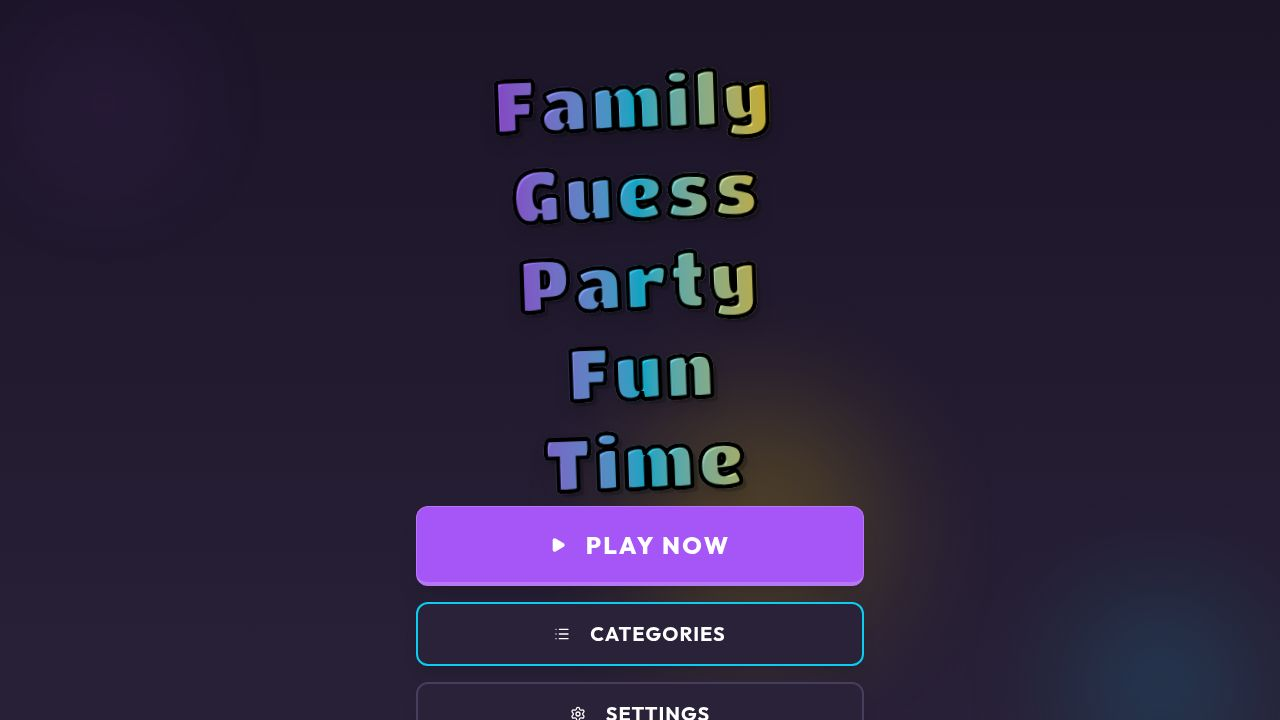
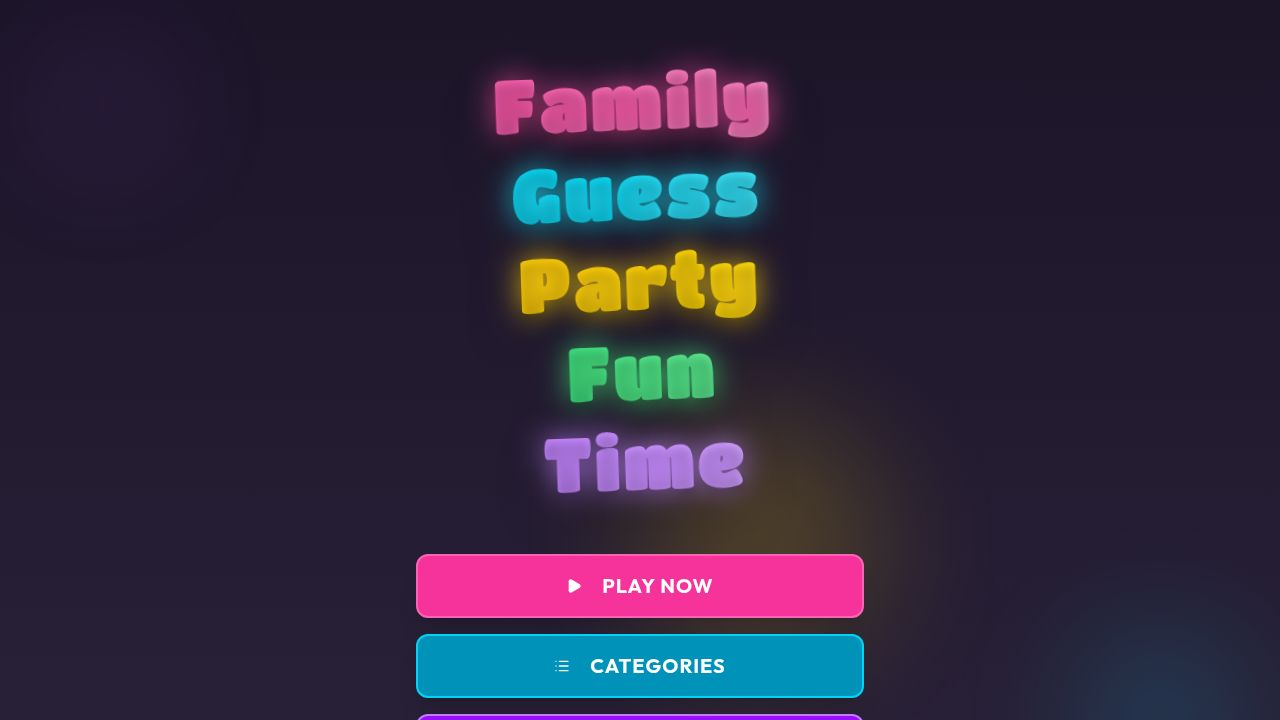
Improve game's main screen appearance with vibrant colors and spacing
Update the Home page UI by increasing spacing between the title and buttons, standardizing button appearances with a distinct pink for 'Play Now', and enhancing the title's text with bolder, brighter, and more vibrant gradient colors.

Replit-Commit-Author: Agent
Replit-Commit-Session-Id: 98156a0a-e30d-4d90-b92c-8c9dc8497f62
Replit-Commit-Checkpoint-Type: intermediate_checkpoint
Replit-Commit-Event-Id: 6503df21-1c62-4601-9d99-6ff2404a9077
Replit-Commit-Screenshot-Url: https://storage.googleapis.com/screenshot-production-us-central1/05ed8dc6-139c-46e5-b00a-5847e72f658c/98156a0a-e30d-4d90-b92c-8c9dc8497f62/EmNNyFl
Replit-Helium-Checkpoint-Created: true

Changed region(s): [[0.3125, 0.0611, 0.6875, 1.0]]

diff --git a/client/src/pages/Home.tsx b/client/src/pages/Home.tsx
@@ -103,12 +103,16 @@ export default function Home() {
 
       <div className="z-10 flex flex-col items-center justify-between min-h-[80vh] max-w-md w-full text-center py-8">
         <div className="space-y-4 animate-bounce-in flex-1 flex items-center">
-          <h1 className="text-6xl md:text-7xl font-black text-transparent bg-clip-text bg-gradient-to-r from-primary via-secondary to-accent text-stroke drop-shadow-xl tracking-wider transform -rotate-2 leading-tight">
-            Family<br/>Guess<br/>Party<br/>Fun<br/>Time
+          <h1 className="text-6xl md:text-7xl font-black tracking-wider transform -rotate-2 leading-tight drop-shadow-2xl">
+            <span className="block text-transparent bg-clip-text bg-gradient-to-r from-pink-400 to-pink-300 drop-shadow-lg" style={{ textShadow: '0 0 30px rgba(236, 72, 153, 0.8), 0 4px 8px rgba(0,0,0,0.3)' }}>Family</span>
+            <span className="block text-transparent bg-clip-text bg-gradient-to-r from-cyan-400 to-cyan-300 drop-shadow-lg" style={{ textShadow: '0 0 30px rgba(34, 211, 238, 0.8), 0 4px 8px rgba(0,0,0,0.3)' }}>Guess</span>
+            <span className="block text-transparent bg-clip-text bg-gradient-to-r from-yellow-400 to-yellow-300 drop-shadow-lg" style={{ textShadow: '0 0 30px rgba(250, 204, 21, 0.8), 0 4px 8px rgba(0,0,0,0.3)' }}>Party</span>
+            <span className="block text-transparent bg-clip-text bg-gradient-to-r from-green-400 to-green-300 drop-shadow-lg" style={{ textShadow: '0 0 30px rgba(74, 222, 128, 0.8), 0 4px 8px rgba(0,0,0,0.3)' }}>Fun</span>
+            <span className="block text-transparent bg-clip-text bg-gradient-to-r from-purple-400 to-purple-300 drop-shadow-lg" style={{ textShadow: '0 0 30px rgba(192, 132, 252, 0.8), 0 4px 8px rgba(0,0,0,0.3)' }}>Time</span>
           </h1>
         </div>
 
-        <div className="grid gap-4 w-full animate-slide-up mt-auto" style={{ animationDelay: '0.2s' }}>
+        <div className="grid gap-4 w-full animate-slide-up mt-12" style={{ animationDelay: '0.2s' }}>
           {/* iOS hint to add to home screen for fullscreen experience */}
           {isIOS && !isStandalone && (
             <div className="bg-card/80 backdrop-blur rounded-xl p-4 text-sm text-muted-foreground flex items-center gap-3 border border-border">
@@ -119,19 +123,18 @@ export default function Home() {
           
           <Button 
             size="lg" 
-            className="w-full h-20 text-2xl font-black uppercase tracking-widest shadow-xl hover:scale-105 transition-transform bg-primary hover:bg-primary/90 text-white border-b-4 border-primary-foreground/20 active:border-b-0 active:translate-y-1"
+            className="w-full h-16 text-xl font-bold uppercase tracking-wider shadow-xl hover:scale-105 transition-transform bg-pink-500 hover:bg-pink-400 text-white border-2 border-pink-400"
             onClick={handleStart}
             data-testid="button-play"
           >
-            <Play className="mr-3 w-8 h-8 fill-current" />
+            <Play className="mr-3 w-6 h-6 fill-current" />
             Play Now
           </Button>
 
           <Link href="/categories">
             <Button 
-              variant="outline" 
               size="lg" 
-              className="w-full h-16 text-xl font-bold uppercase tracking-wider shadow-lg hover:scale-105 transition-transform border-2 border-secondary bg-card hover:bg-secondary hover:text-secondary-foreground"
+              className="w-full h-16 text-xl font-bold uppercase tracking-wider shadow-xl hover:scale-105 transition-transform bg-cyan-600 hover:bg-cyan-500 text-white border-2 border-cyan-400"
               data-testid="button-categories"
             >
               <List className="mr-3 w-6 h-6" />
@@ -141,9 +144,8 @@ export default function Home() {
 
           <Link href="/settings">
             <Button 
-              variant="outline" 
               size="lg" 
-              className="w-full h-16 text-xl font-bold uppercase tracking-wider shadow-lg hover:scale-105 transition-transform border-2 border-border bg-card hover:bg-accent hover:text-accent-foreground"
+              className="w-full h-16 text-xl font-bold uppercase tracking-wider shadow-xl hover:scale-105 transition-transform bg-purple-600 hover:bg-purple-500 text-white border-2 border-purple-400"
               data-testid="button-settings"
             >
               <SettingsIcon className="mr-3 w-6 h-6" />
